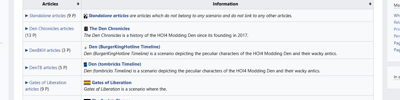
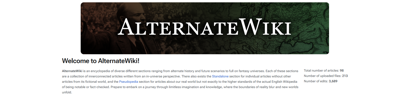
tombrickdotcom

diff --git a/hoi4modding/scripts/focus.js b/hoi4modding/scripts/focus.js
@@ -2,7 +2,7 @@ let editing_focus_id = "-1"
 let tree_data = {}
 monaco_init = false;
 var focus_monaco = {
-    "available": null, "bypass": null, "reward": null, "allow": null, "cancel": null, "historical": null, "tooltip": null, "select": null
+    "available": null, "bypass": null, "completion_reward": null, "allow_branch": null, "cancel": null, "historical_ai": null, "complete_tooltip": null, "select_effect": null, "ai_will_do": null
 };
 
 function focus_editor_generate_filters() {
@@ -106,12 +106,13 @@ function focus_editor_select_focus(id) {
     $("#focus_bypass_if_unavailable").prop('checked', sFocus.bypass_if_unavailable);
     focus_monaco["available"].setValue(sFocus.blocks["available"]);
     focus_monaco["bypass"].setValue(sFocus.blocks["bypass"]);
-    focus_monaco["reward"].setValue(sFocus.blocks["reward"]);
-    focus_monaco["allow"].setValue(sFocus.blocks["allow"]);
+    focus_monaco["completion_reward"].setValue(sFocus.blocks["completion_reward"]);
+    focus_monaco["allow_branch"].setValue(sFocus.blocks["allow_branch"]);
     focus_monaco["cancel"].setValue(sFocus.blocks["cancel"]);
-    focus_monaco["historical"].setValue(sFocus.blocks["historical"]);
-    focus_monaco["tooltip"].setValue(sFocus.blocks["tooltip"]);
-    focus_monaco["select"].setValue(sFocus.blocks["select"]);
+    focus_monaco["historical_ai"].setValue(sFocus.blocks["historical_ai"]);
+    focus_monaco["ai_will_do"].setValue(sFocus.blocks["ai_will_do"]);
+    focus_monaco["complete_tooltip"].setValue(sFocus.blocks["complete_tooltip"]);
+    focus_monaco["select_effect"].setValue(sFocus.blocks["select_effect"]);
 
     for(let filter in tree_data["filters"]) {
         $(`#focus_filters-${filter}`).prop('checked', sFocus.search_filters.includes(filter));
@@ -336,7 +337,8 @@ function focus_editor_change_prereq(id, prereqId, subId, val) {
 }
 
 function focus_editor_create_prereq(id) {
-    tree_data["focus_data"][id].prerequisites.push([$("#focus_prereq-new").val()])
+    tree_data["focus_data"][id].prerequisites.push([$("#focus_prereq-new").val()]);
+    tree_data["focus_data"][$("#focus_prereq-new").val()].reverse_prerequisites.push([id]);
     focus_editor_generate_prereqs(id);
 }
 
@@ -446,7 +448,7 @@ function Focus(internalID) {
         this.blocks[thing] = "";
     }
     this.desc = "";
-    this.cost = 1;
+    this.cost = 5;
     // need to add
     this.relative_position_id = -1;
     this.relative_position_successors = [];
@@ -459,7 +461,6 @@ function Focus(internalID) {
     this.bypass_if_unavailable = false;
     this.will_lead_to_war_with = [];
     this.offset = "";
-    this.ai_will_do = "";
     this.search_filters = [];
 }
 function create_horizontal_line(divname, classes, originx, originy, length) {
@@ -655,20 +656,67 @@ function focus_editor_generate_tree() {
     continuous_focus_position = { x = 55 y = 1500 }`;
     for(let focus in tree_data["focus_data"]) {
         let sFocus = tree_data["focus_data"][focus];
+
+        let _rel = ``;
+        if (sFocus.relative_position_id != -1)
+            _rel = `\n        relative_position_id = ${tree_data.focus_data[sFocus.relative_position_id].id}`;
+
+        let _muts = ``;
+        if (sFocus.mutually_exclusives.length > 0) {
+            _muts = `mutually_exclusive = { `;
+            for (let focus2 of tree_data.focus_data[focus].mutually_exclusives) {
+                _muts += `focus = ${tree_data.focus_data[focus2].id} `;
+            }
+            _muts += `}`;
+        }
+
+        let _preqs = ``;
+        for(let prereq of tree_data.focus_data[focus].prerequisites) {
+            _preqs += `        prerequisite = { `;
+            for (let prereq2 of prereq) {
+                _preqs += `focus = ${tree_data.focus_data[prereq2].id} `;
+            }
+            _preqs += `}\n`
+        }
+
+        let _blocks = ``;
+        for (let block in focus_monaco) {
+            if (sFocus.blocks[block] != "")
+                _blocks += `
+        
+        ${block} = {
+            ${sFocus.blocks[block].replaceAll("\n", "\n            ")}
+        }`
+        }
+
         out += `
 
     focus = {
         id = ${sFocus.id}
+        icon = ${sFocus.icon}
+        x = ${sFocus.relative_x}
+        y = ${sFocus.relative_y}${_rel}
+        cost = ${sFocus.cost}
+        available_if_capitulated = ${yes_no(sFocus.available_if_capitulated)}
+        cancel_if_invalid = ${yes_no(sFocus.cancel_if_invalid)}
+        continue_if_invalid = ${yes_no(sFocus.continue_if_invalid)}
+        cancelable = ${yes_no(sFocus.cancelable)}
+        bypass_if_unavailable = ${yes_no(sFocus.bypass_if_unavailable)}
+        ${_muts}
+${_preqs}${_blocks}
     }`;
     }
     out += `\n}`;
     return out;
 }
-function focus_editor_download_zip() {
-    let zip = new JSZip();
-    zip.file(`common/national_focus/${tree_data.tag}_focus_tree.txt`, focus_editor_generate_tree());
-    let content = zip.generate();
-    location.href = "data:application/zip;base64," + content;
+function focus_editor_download_files() {
+    let link = document.createElement("a");
+    let content = focus_editor_generate_tree();
+    const file = new Blob([content], {type: 'text/plain'});
+    link.href = URL.createObjectURL(file);
+    link.download = `${tree_data.tag}_focus_tree.txt`;
+    link.click();
+    URL.revokeObjectURL(link.href);
 }
 
 function focus_editor_search_gallery() {
@@ -777,14 +825,15 @@ $(document).ready(function() {
                 automaticLayout: true
             });
         }
-        focus_monaco["reward"].getModel().onDidChangeContent((event) => { tree_data["focus_data"][editing_focus_id].blocks["reward"] = focus_monaco["reward"].getValue();    });
+        focus_monaco["completion_reward"].getModel().onDidChangeContent((event) => { tree_data["focus_data"][editing_focus_id].blocks["completion_reward"] = focus_monaco["completion_reward"].getValue();    });
         focus_monaco["available"].getModel().onDidChangeContent((event) => { tree_data["focus_data"][editing_focus_id].blocks["available"] = focus_monaco["available"].getValue();    });
         focus_monaco["bypass"].getModel().onDidChangeContent((event) => { tree_data["focus_data"][editing_focus_id].blocks["bypass"] = focus_monaco["bypass"].getValue();    });
-        focus_monaco["allow"].getModel().onDidChangeContent((event) => { tree_data["focus_data"][editing_focus_id].blocks["allow"] = focus_monaco["allow"].getValue();    });
+        focus_monaco["allow_branch"].getModel().onDidChangeContent((event) => { tree_data["focus_data"][editing_focus_id].blocks["allow_branch"] = focus_monaco["allow_branch"].getValue();    });
         focus_monaco["cancel"].getModel().onDidChangeContent((event) => { tree_data["focus_data"][editing_focus_id].blocks["cancel"] = focus_monaco["cancel"].getValue();    });
-        focus_monaco["historical"].getModel().onDidChangeContent((event) => { tree_data["focus_data"][editing_focus_id].blocks["historical"] = focus_monaco["historical"].getValue();    });
-        focus_monaco["select"].getModel().onDidChangeContent((event) => { tree_data["focus_data"][editing_focus_id].blocks["select"] = focus_monaco["select"].getValue();    });
-        focus_monaco["tooltip"].getModel().onDidChangeContent((event) => { tree_data["focus_data"][editing_focus_id].blocks["tooltip"] = focus_monaco["tooltip"].getValue();    });
+        focus_monaco["historical_ai"].getModel().onDidChangeContent((event) => { tree_data["focus_data"][editing_focus_id].blocks["historical_ai"] = focus_monaco["historical_ai"].getValue();    });
+        focus_monaco["ai_will_do"].getModel().onDidChangeContent((event) => { tree_data["focus_data"][editing_focus_id].blocks["ai_will_do"] = focus_monaco["ai_will_do"].getValue();    });
+        focus_monaco["select_effect"].getModel().onDidChangeContent((event) => { tree_data["focus_data"][editing_focus_id].blocks["select_effect"] = focus_monaco["select_effect"].getValue();    });
+        focus_monaco["complete_tooltip"].getModel().onDidChangeContent((event) => { tree_data["focus_data"][editing_focus_id].blocks["complete_tooltip"] = focus_monaco["complete_tooltip"].getValue();    });
         monaco_init = true;
 
         $("#loading").remove();

diff --git a/hoi4modding/index.html b/hoi4modding/index.html
@@ -18,6 +18,7 @@
                 <h2 style="margin-bottom: 0.4em">HOI4 National Focus Creator</h2>
                 <button onclick="focus_editor_save_focuses()">Save Tree to Browser</button>
                 <button onclick="focus_editor_load_focuses()">Load Tree from Browser</button>
+                <button onclick="focus_editor_download_files()">Download Tree</button>
                 <button onclick="focus_editor_create_new_tree()">Create New Tree</button>
                 <button onclick="focus_editor_new_focus_button()">Create Focus</button>
             </div>
@@ -75,7 +76,7 @@
                 
                 <div class="focus-editor-basics" style="top: 682px">
                     <div class="focus-editor-basics" style="width: 444px; height: 24px; left: 8px; top: 0px;">Completion Reward (Effect Block)</div>
-                    <div id="focus_monaco_reward" class="focus-editor-basics monaco-container" style="width: 452px; height: 24px; left: 8px; top: 32px;"></div><br>
+                    <div id="focus_monaco_completion_reward" class="focus-editor-basics monaco-container" style="width: 452px; height: 24px; left: 8px; top: 32px;"></div><br>
                 </div>
                 
                 <div class="focus-editor-basics" style="top: 850px">
@@ -88,31 +89,36 @@
                     <div id="focus_monaco_bypass" class="focus-editor-basics monaco-container" style="width: 452px; height: 24px; left: 8px; top: 32px;"></div><br>
                 </div>
                 
-                <div class="focus-editor-basics" style="width: 444px; height: 24px; left: 8px; top: 1194px; font-size: 24px;">Advanced</div>
-                
-                <div class="focus-editor-basics" style="top: 1226px">
-                    <div class="focus-editor-basics" style="width: 444px; height: 24px; left: 8px; top: 0px;">Allow Branch (Trigger Block)</div>
-                    <div id="focus_monaco_allow" class="focus-editor-basics monaco-container" style="width: 452px; height: 24px; left: 8px; top: 32px;"></div><br>
+                <div class="focus-editor-basics" style="top: 1186px">
+                    <div class="focus-editor-basics" style="width: 444px; height: 24px; left: 8px; top: 0px;">AI Will Do (MTTH Block)</div>
+                    <div id="focus_monaco_ai_will_do" class="focus-editor-basics monaco-container" style="width: 452px; height: 24px; left: 8px; top: 32px;"></div><br>
                 </div>
                 
+                <div class="focus-editor-basics" style="width: 444px; height: 24px; left: 8px; top: 1362px; font-size: 24px;">Advanced</div>
+                
                 <div class="focus-editor-basics" style="top: 1394px">
+                    <div class="focus-editor-basics" style="width: 444px; height: 24px; left: 8px; top: 0px;">Allow Branch (Trigger Block)</div>
+                    <div id="focus_monaco_allow_branch" class="focus-editor-basics monaco-container" style="width: 452px; height: 24px; left: 8px; top: 32px;"></div><br>
+                </div>
+                
+                <div class="focus-editor-basics" style="top: 1562px">
                     <div class="focus-editor-basics" style="width: 444px; height: 24px; left: 8px; top: 0px;">Cancel (Trigger Block)</div>
                     <div id="focus_monaco_cancel" class="focus-editor-basics monaco-container" style="width: 452px; height: 24px; left: 8px; top: 32px;"></div><br>
                 </div>
                 
-                <div class="focus-editor-basics" style="top: 1562px">
-                    <div class="focus-editor-basics" style="width: 444px; height: 24px; left: 8px; top: 0px;">Historical AI (Trigger Block)</div>
-                    <div id="focus_monaco_historical" class="focus-editor-basics monaco-container" style="width: 452px; height: 24px; left: 8px; top: 32px;"></div><br>
-                </div>
-                
                 <div class="focus-editor-basics" style="top: 1730px">
-                    <div class="focus-editor-basics" style="width: 444px; height: 24px; left: 8px; top: 0px;">Select Effect (Effect Block)</div>
-                    <div id="focus_monaco_select" class="focus-editor-basics monaco-container" style="width: 452px; height: 24px; left: 8px; top: 32px;"></div><br>
+                    <div class="focus-editor-basics" style="width: 444px; height: 24px; left: 8px; top: 0px;">Historical AI (Trigger Block)</div>
+                    <div id="focus_monaco_historical_ai" class="focus-editor-basics monaco-container" style="width: 452px; height: 24px; left: 8px; top: 32px;"></div><br>
                 </div>
                 
                 <div class="focus-editor-basics" style="top: 1898px">
+                    <div class="focus-editor-basics" style="width: 444px; height: 24px; left: 8px; top: 0px;">Select Effect (Effect Block)</div>
+                    <div id="focus_monaco_select_effect" class="focus-editor-basics monaco-container" style="width: 452px; height: 24px; left: 8px; top: 32px;"></div><br>
+                </div>
+                
+                <div class="focus-editor-basics" style="top: 2066px">
                     <div class="focus-editor-basics" style="width: 444px; height: 24px; left: 8px; top: 0px;">Complete Tooltip (Effect Block)</div>
-                    <div id="focus_monaco_tooltip" class="focus-editor-basics monaco-container" style="width: 452px; height: 24px; left: 8px; top: 32px;"></div><br>
+                    <div id="focus_monaco_complete_tooltip" class="focus-editor-basics monaco-container" style="width: 452px; height: 24px; left: 8px; top: 32px;"></div><br>
                 </div>
                 <div id="focus_filters" style="width: 220px;
                 height: 36px;

diff --git a/index.html b/index.html
@@ -16,8 +16,7 @@
     <div class="header">
         <h1 style="margin:0"><img src="assets/veronica portrait.png" class="tomoji" /> tombricks website <img
                 src="assets/bob portrait.png" class="tomoji" /></h1>
-        <h3 style="margin:0">Home of the President of the <img src="assets/flag_hv.png" class="tomoji" /> Independent
-            Republic of Havering <img src="assets/flag_hv.png" class="tomoji" /></h3><sup>(1.0.12: Removed Herobrine)</sup>
+        <h3 style="margin:0">Home of the Chairperson of the <img src="assets/flag_hv.png" class="tomoji" /> <a href="https://anotherworld.miraheze.org/wiki/Pseudopedia/Havering_People's_Revolutionary_Party">Havering People's Revolutionary Party</a> <img src="assets/flag_hv.png" class="tomoji" /></h3><sup>(1.0.13: Removed Herobrine)</sup>
     </div>
     <table style="width: 100%;">
         <tr>
@@ -27,7 +26,7 @@
             <br>
             Twitter: <a href="https://twitter.com/tombruhcks">@tombruhcks</a>
             <br>
-            Discord: tombricks#8755
+            Discord: <a href="https://discord.com/users/319960748300435467">tombricks</a>
             <br>
             <table>
                 <tr>
@@ -48,27 +47,27 @@
                 </tr>
                 <tr>
                     <td class="project">
-                        <a href="https://anotherworld.miraheze.org/wiki/Main_Page">AnotherWorld Wiki<br><img
+                        <a href="https://anotherworld.miraheze.org/wiki/Main_Page">AlternateWiki<br><img
                                 src="assets/AnotherWorld-preview.png" class="preview" /></a>
                         <br>
-                        AnotherWorld is a wiki hosted on Miraheze, run by myself, that contains pages for all kinds of
-                        scenarios. Anyone is free to contribute their own pages.
+                        AlternateWiki is a wiki hosted on Miraheze, run by myself, that contains pages for all kinds of
+                        scenarios such as alternate history and futures. It also has a Standalone section and a Pseudopedia section for non-fictional content. Anyone is free to contribute their own pages.
                     </td>
                     <td class="project">
-                        <a href="https://anotherworld.miraheze.org/wiki/Gallery of tombricks flags (Standalone)">Gallery
+                        <a href="https://anotherworld.miraheze.org/wiki/Standalone/Gallery of tombricks flags">Gallery
                             of my Flags<br><img src="assets/Gallery-preview.png" class="preview" /></a>
                         <br>
-                        A page on the aformentioned AnotherWorld wiki that holds all my flags I design.
+                        A page on the aformentioned wiki that holds all my flags I design.
                     </td>
                 </tr>
-                <tr>
+                <!-- <tr>
                     <td class="project">
                         <a href="gov.irh/index.html">gov.irh<br><img
                                 src="assets/gov-irh-preview.png" class="preview" /></a>
                         <br>
                         gov.irh is the official website for the government of the Independent Republic of Havering.
                     </td>
-                </tr>
+                </tr> -->
             </table>
 
             <br><br>
@@ -78,7 +77,7 @@
         </td>
         <td class="split">
             <h1><u>Stuff</u></h1>
-            <text id="gov_type">Unitary parliamentary republic </text><button onclick="random_government()">Generate
+            <text id="gov_type">Unitary parliamentary republic</text><br><button onclick="random_government()">Generate
                 Government Type</button>
 
             <br><br>

diff --git a/script.js b/script.js
@@ -49,7 +49,7 @@ function random_government() {
         extra1 = weighted_random(["Marxist-Leninist ", ""], [1, 2]);
     }
     var total = capitalizeFirstLetter(constitutional + extra1 + party + power + ideology + stype);
-    el.innerText = total + " ";
+    el.innerText = total;
     return total;
 }
 
